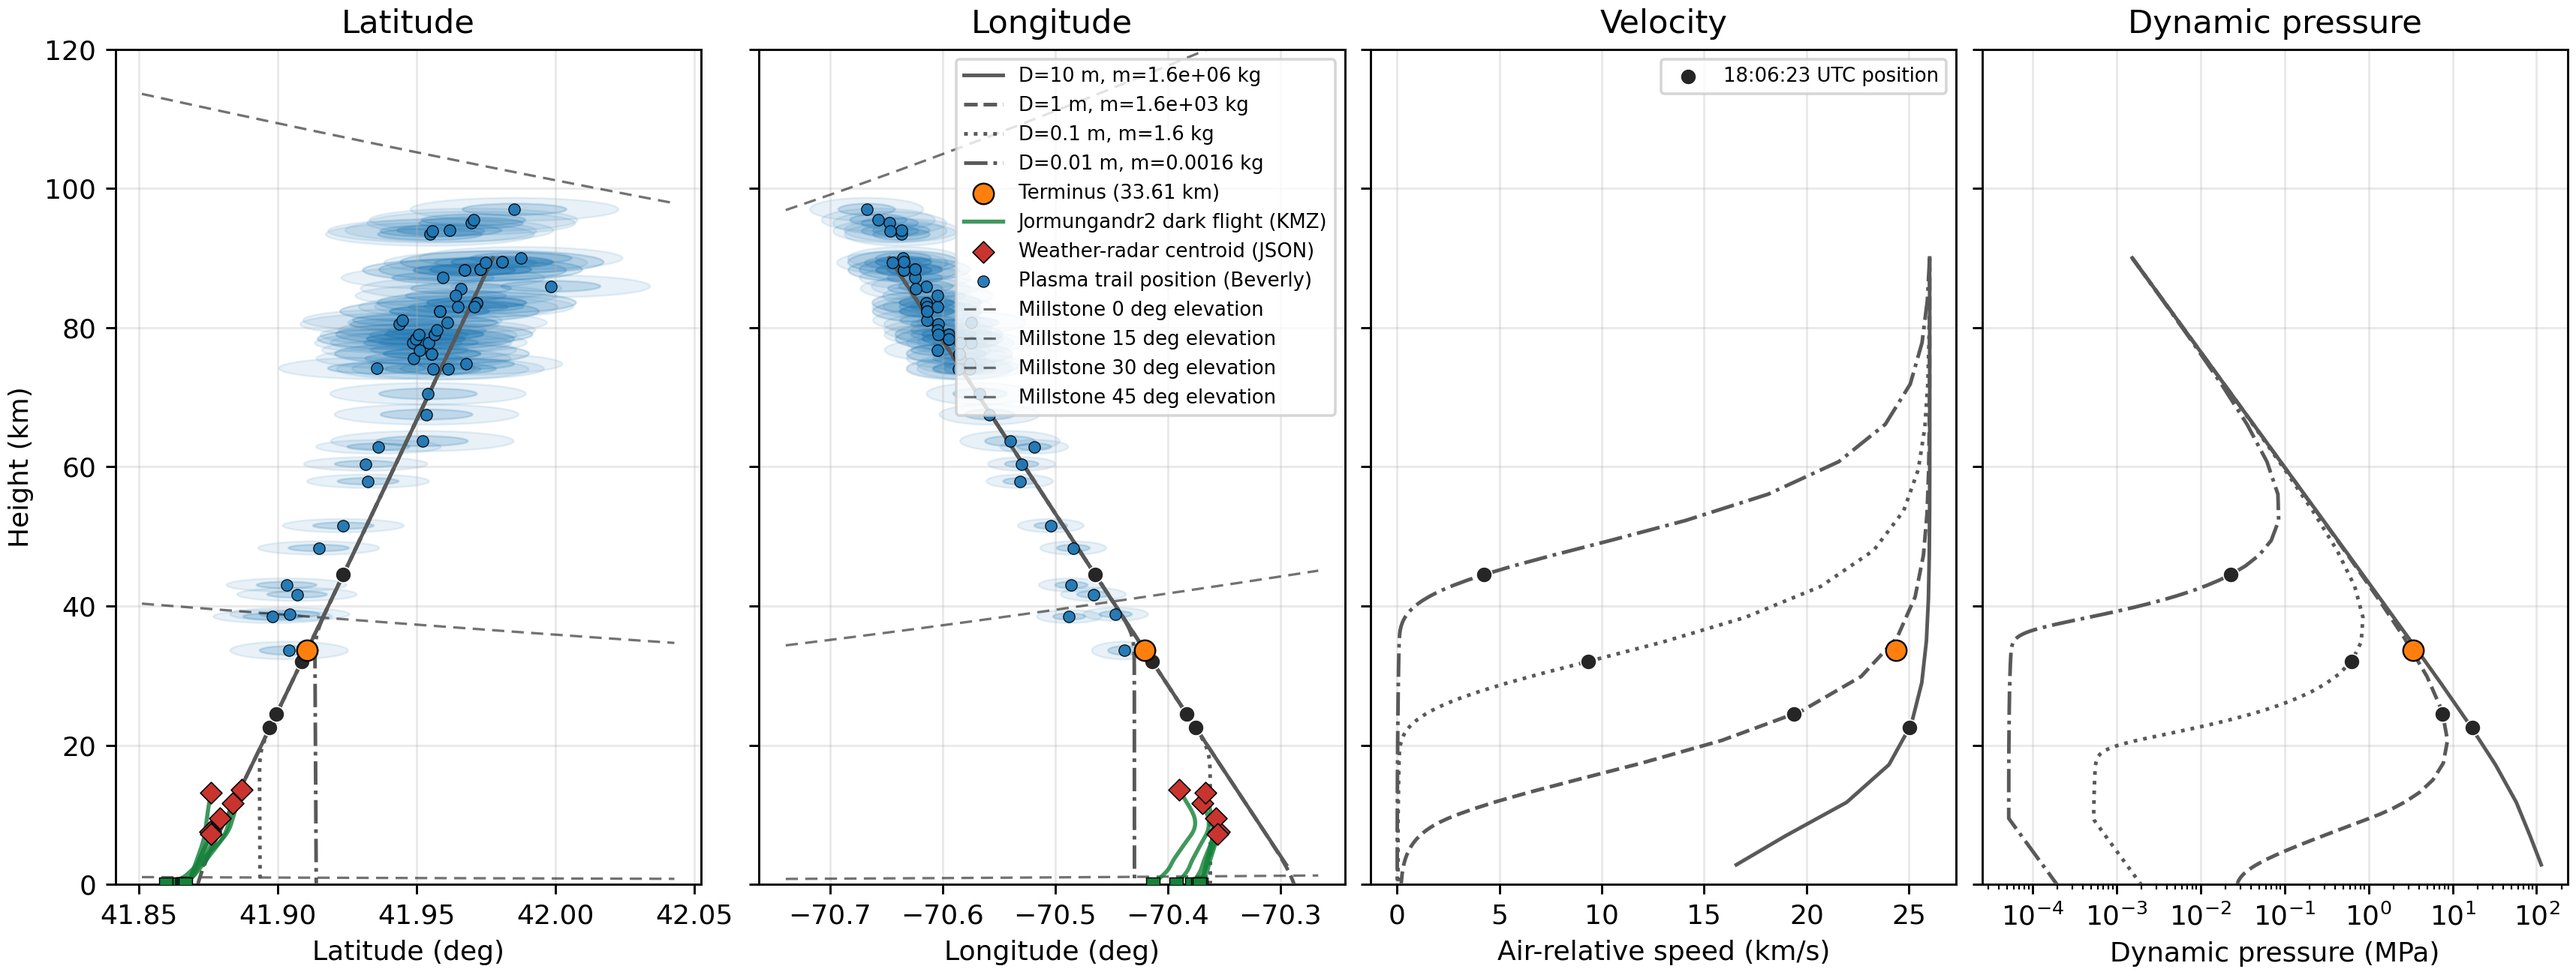
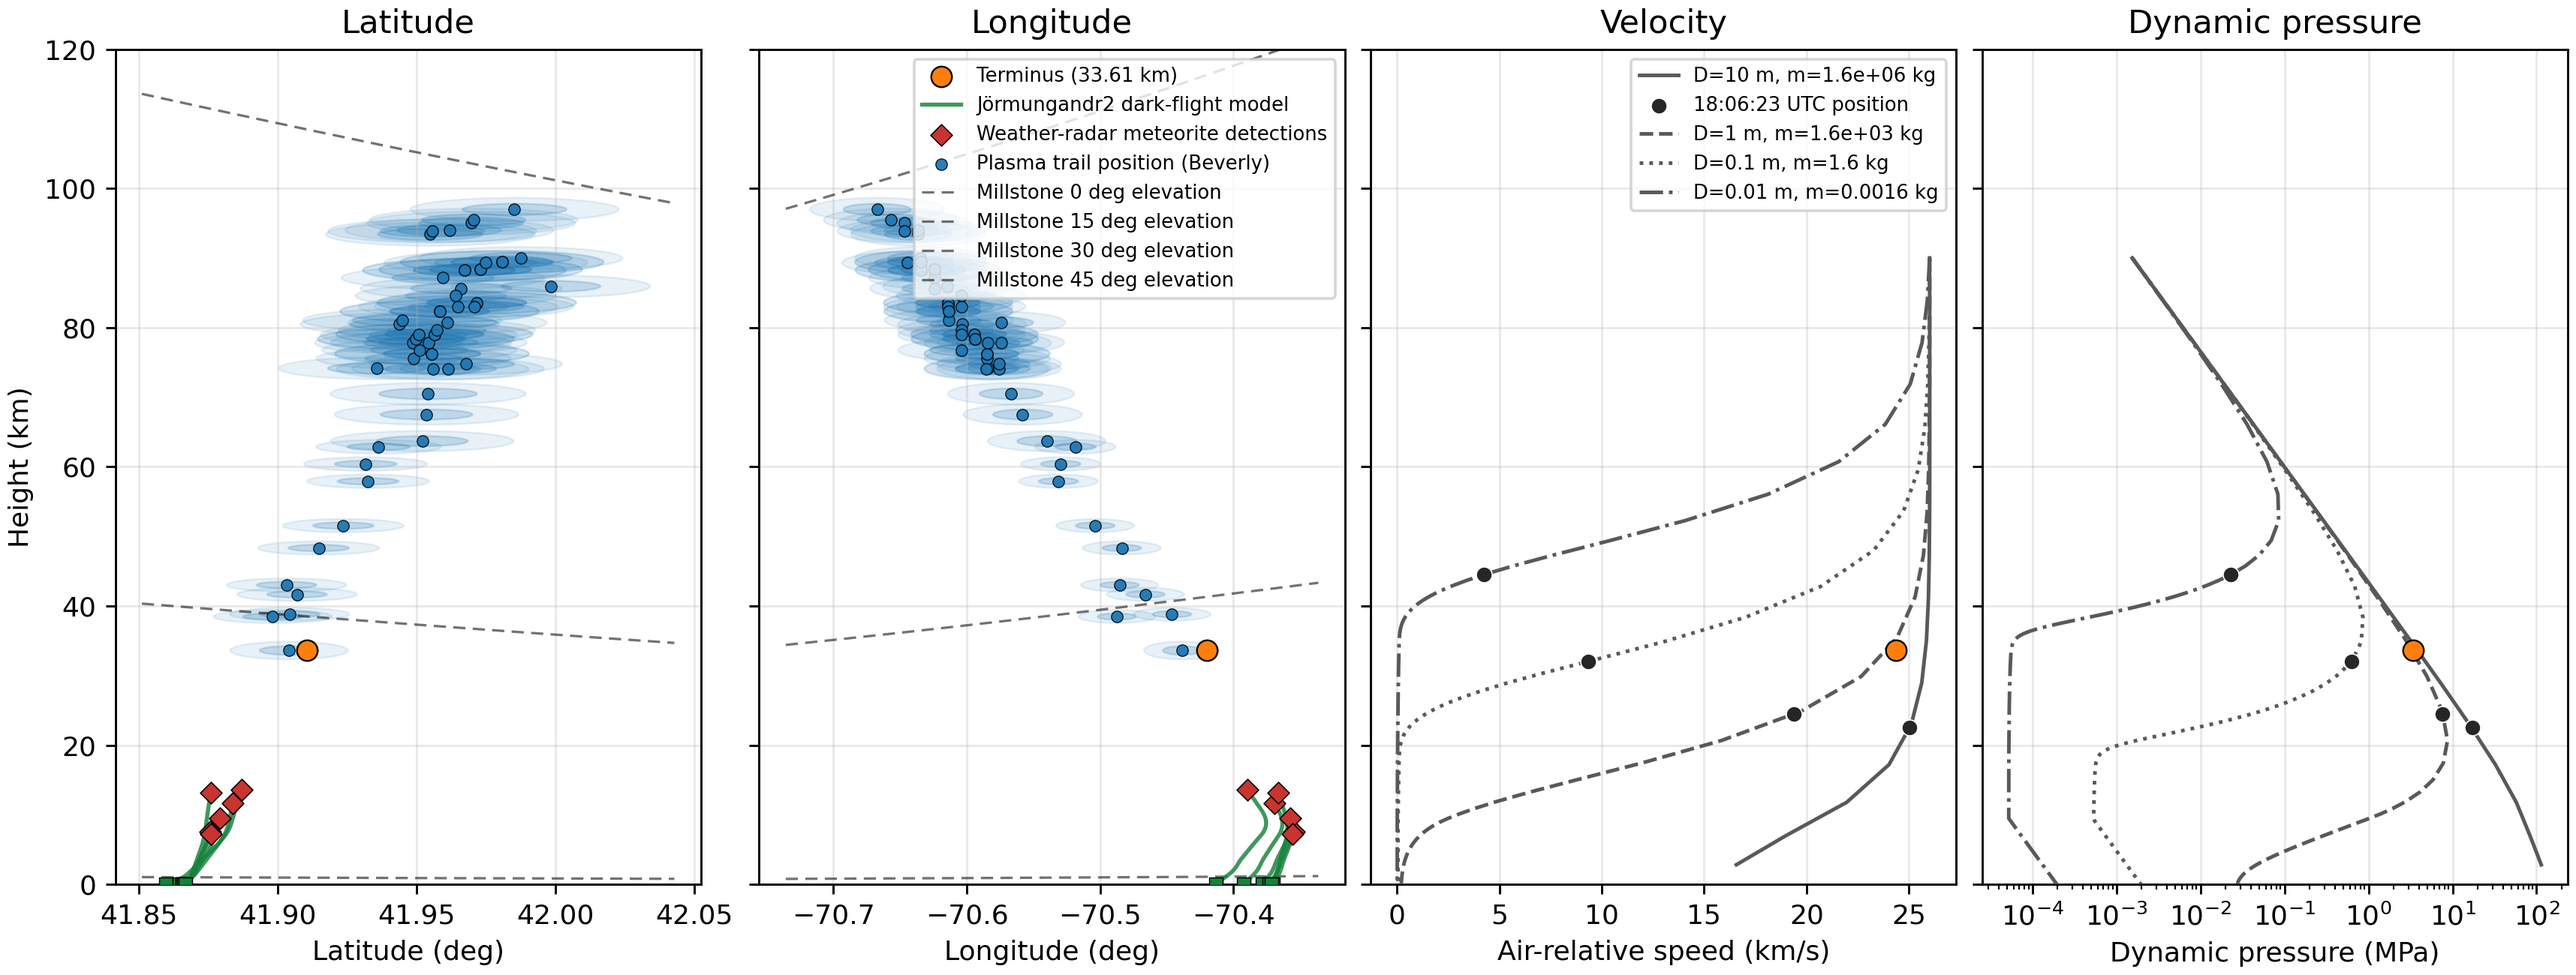
Refine Figure 5 dark-flight presentation

diff --git a/reports/plot_fragment_size_hypotheses.py b/reports/plot_fragment_size_hypotheses.py
@@ -448,14 +448,10 @@ def make_plot(
         style = linestyles[idx % len(linestyles)]
         q = np.asarray(path["dynamic_pressure_mpa"], dtype=float)
         q_plot = np.where(q > 0.0, q, np.nan)
-        ax_lat.plot(path["lat_deg"], path["alt_km"], color="0.35", lw=1.35, linestyle=style, zorder=4)
-        ax_lon.plot(path["lon_deg"], path["alt_km"], color="0.35", lw=1.35, linestyle=style, label=label, zorder=4)
-        ax_vel.plot(path["air_relative_speed_km_s"], path["alt_km"], color="0.35", lw=1.35, linestyle=style, zorder=4)
+        ax_vel.plot(path["air_relative_speed_km_s"], path["alt_km"], color="0.35", lw=1.35, linestyle=style, label=label, zorder=4)
         ax_q.plot(q_plot, path["alt_km"], color="0.35", lw=1.35, linestyle=style, zorder=4)
         marker = interp_path_at_time(path, marker_time_unix)
         if marker is not None:
-            ax_lat.scatter([marker["lat_deg"]], [marker["alt_km"]], marker="o", s=34, color="0.15", edgecolor="white", linewidth=0.45, zorder=7)
-            ax_lon.scatter([marker["lon_deg"]], [marker["alt_km"]], marker="o", s=34, color="0.15", edgecolor="white", linewidth=0.45, zorder=7)
             marker_label = None
             if not marker_label_added:
                 marker_label = "18:06:23 UTC position"
@@ -492,7 +488,7 @@ def make_plot(
             ax_q.scatter([terminus_marker["dynamic_pressure_mpa"]], [terminus_alt_km], **marker_style)
 
     for idx, dark_path in enumerate(dark_flight_paths):
-        label = "Jormungandr2 dark flight (KMZ)" if idx == 0 else None
+        label = "Jörmungandr2 dark-flight model" if idx == 0 else None
         ax_lat.plot(dark_path["lat_deg"], dark_path["alt_km"], color="#16823b", lw=1.5, alpha=0.82, zorder=5)
         ax_lon.plot(
             dark_path["lon_deg"],
@@ -519,7 +515,7 @@ def make_plot(
             "zorder": 8,
         }
         ax_lat.scatter(detection_lat, detection_alt, **detection_style)
-        ax_lon.scatter(detection_lon, detection_alt, label="Weather-radar centroid (JSON)", **detection_style)
+        ax_lon.scatter(detection_lon, detection_alt, label="Weather-radar meteorite detections", **detection_style)
 
     if components:
         stations = sorted(set(str(c["station"]) for c in components))
